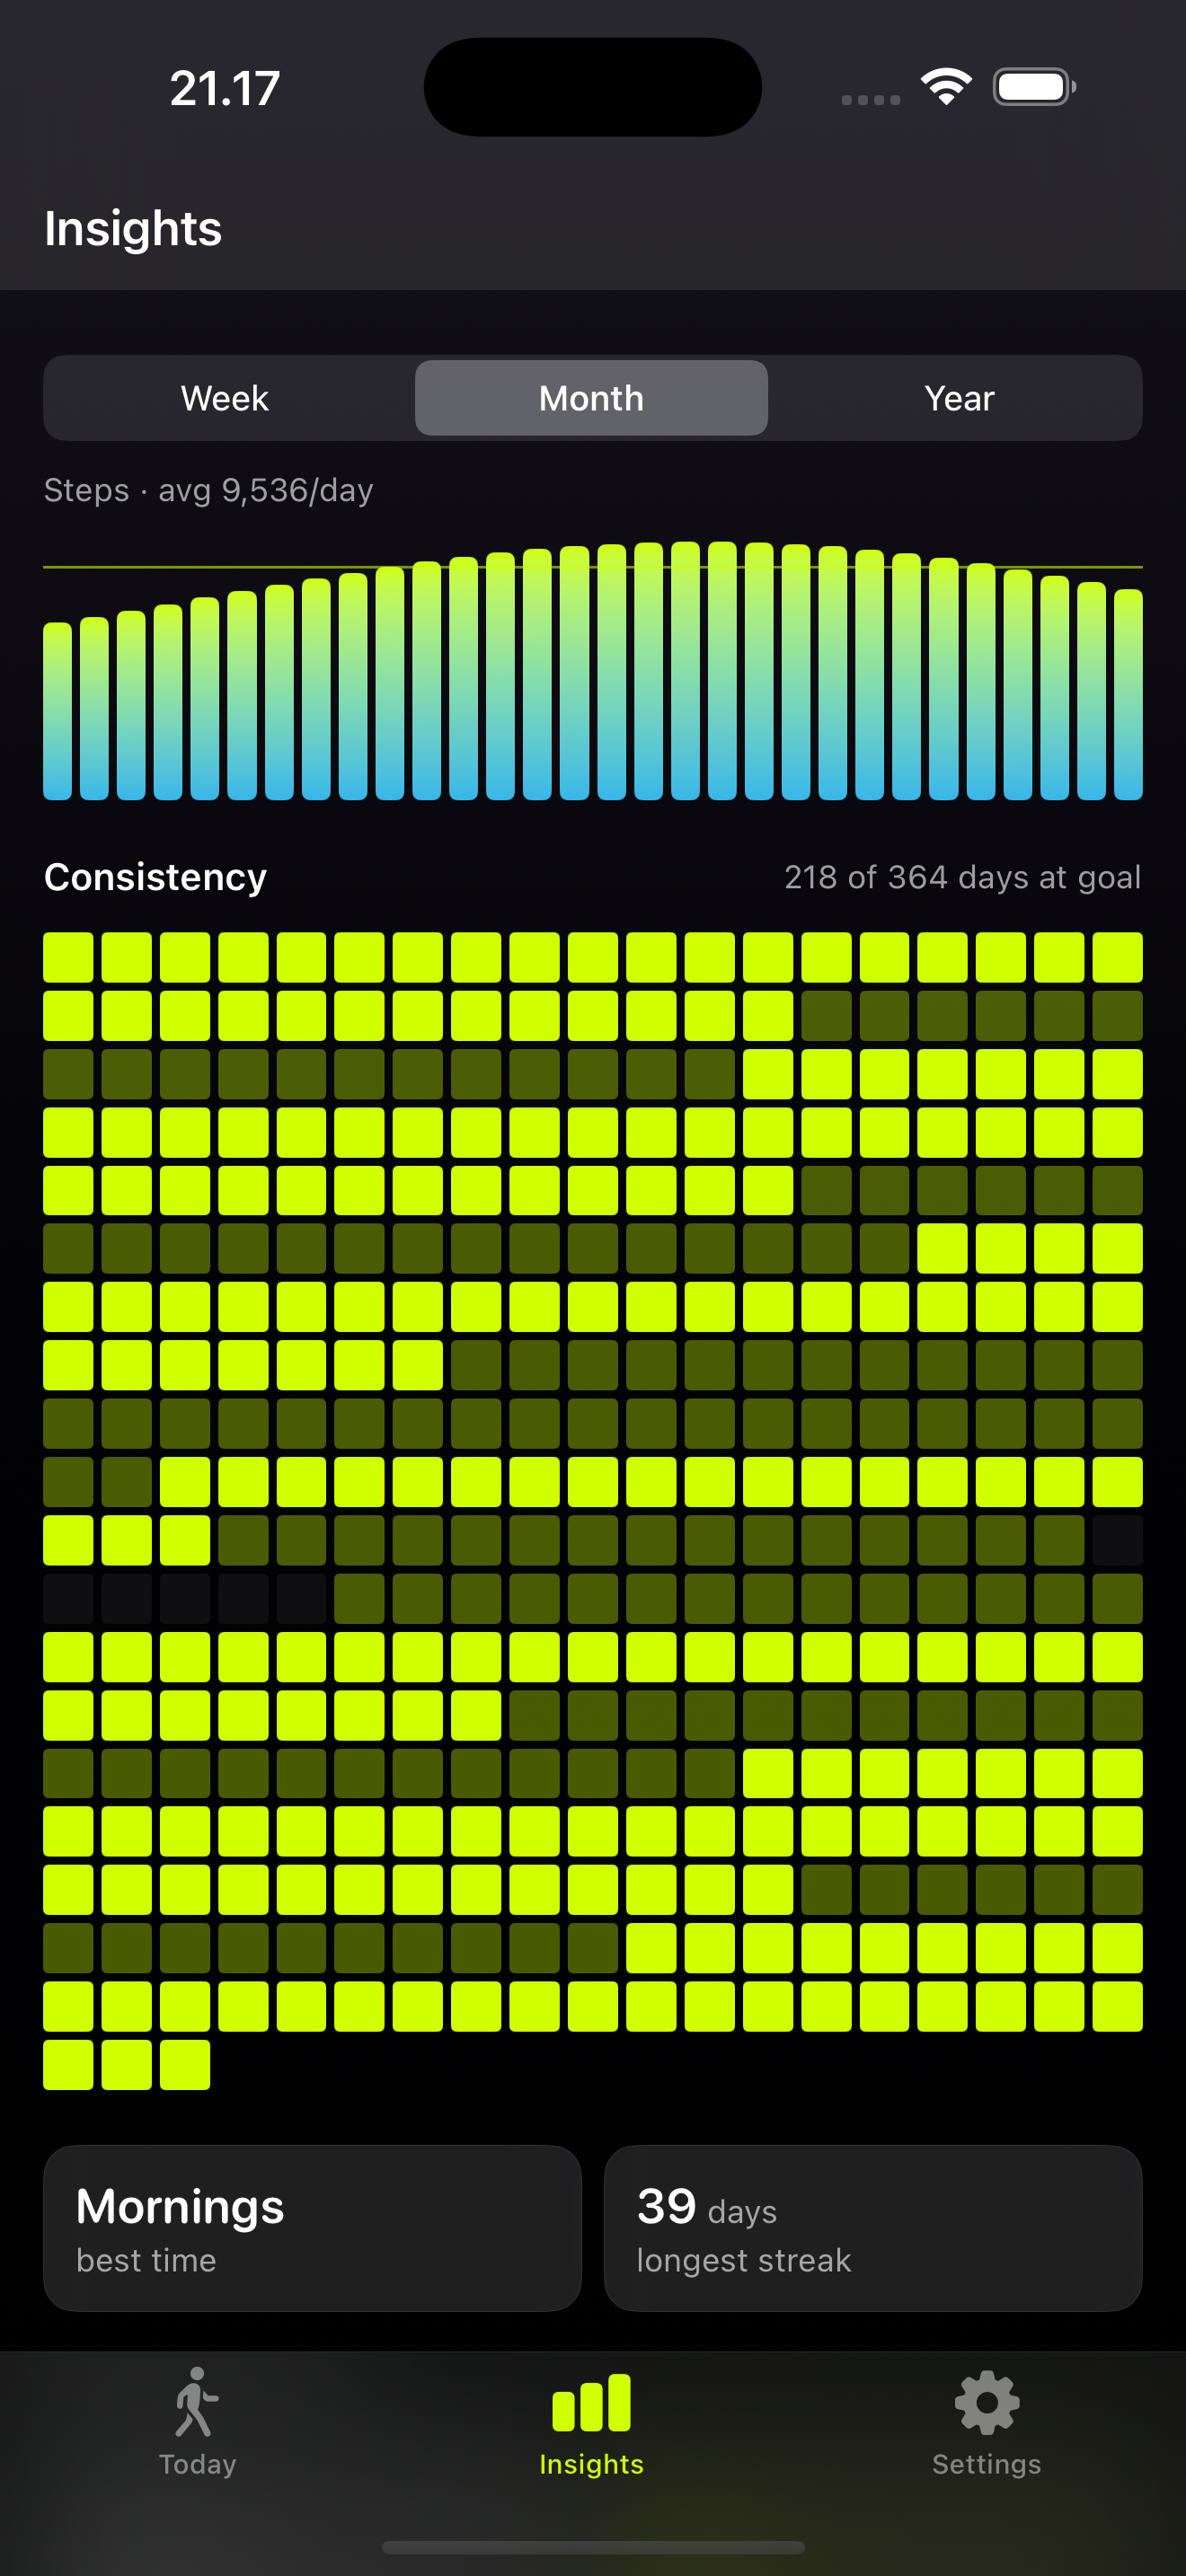
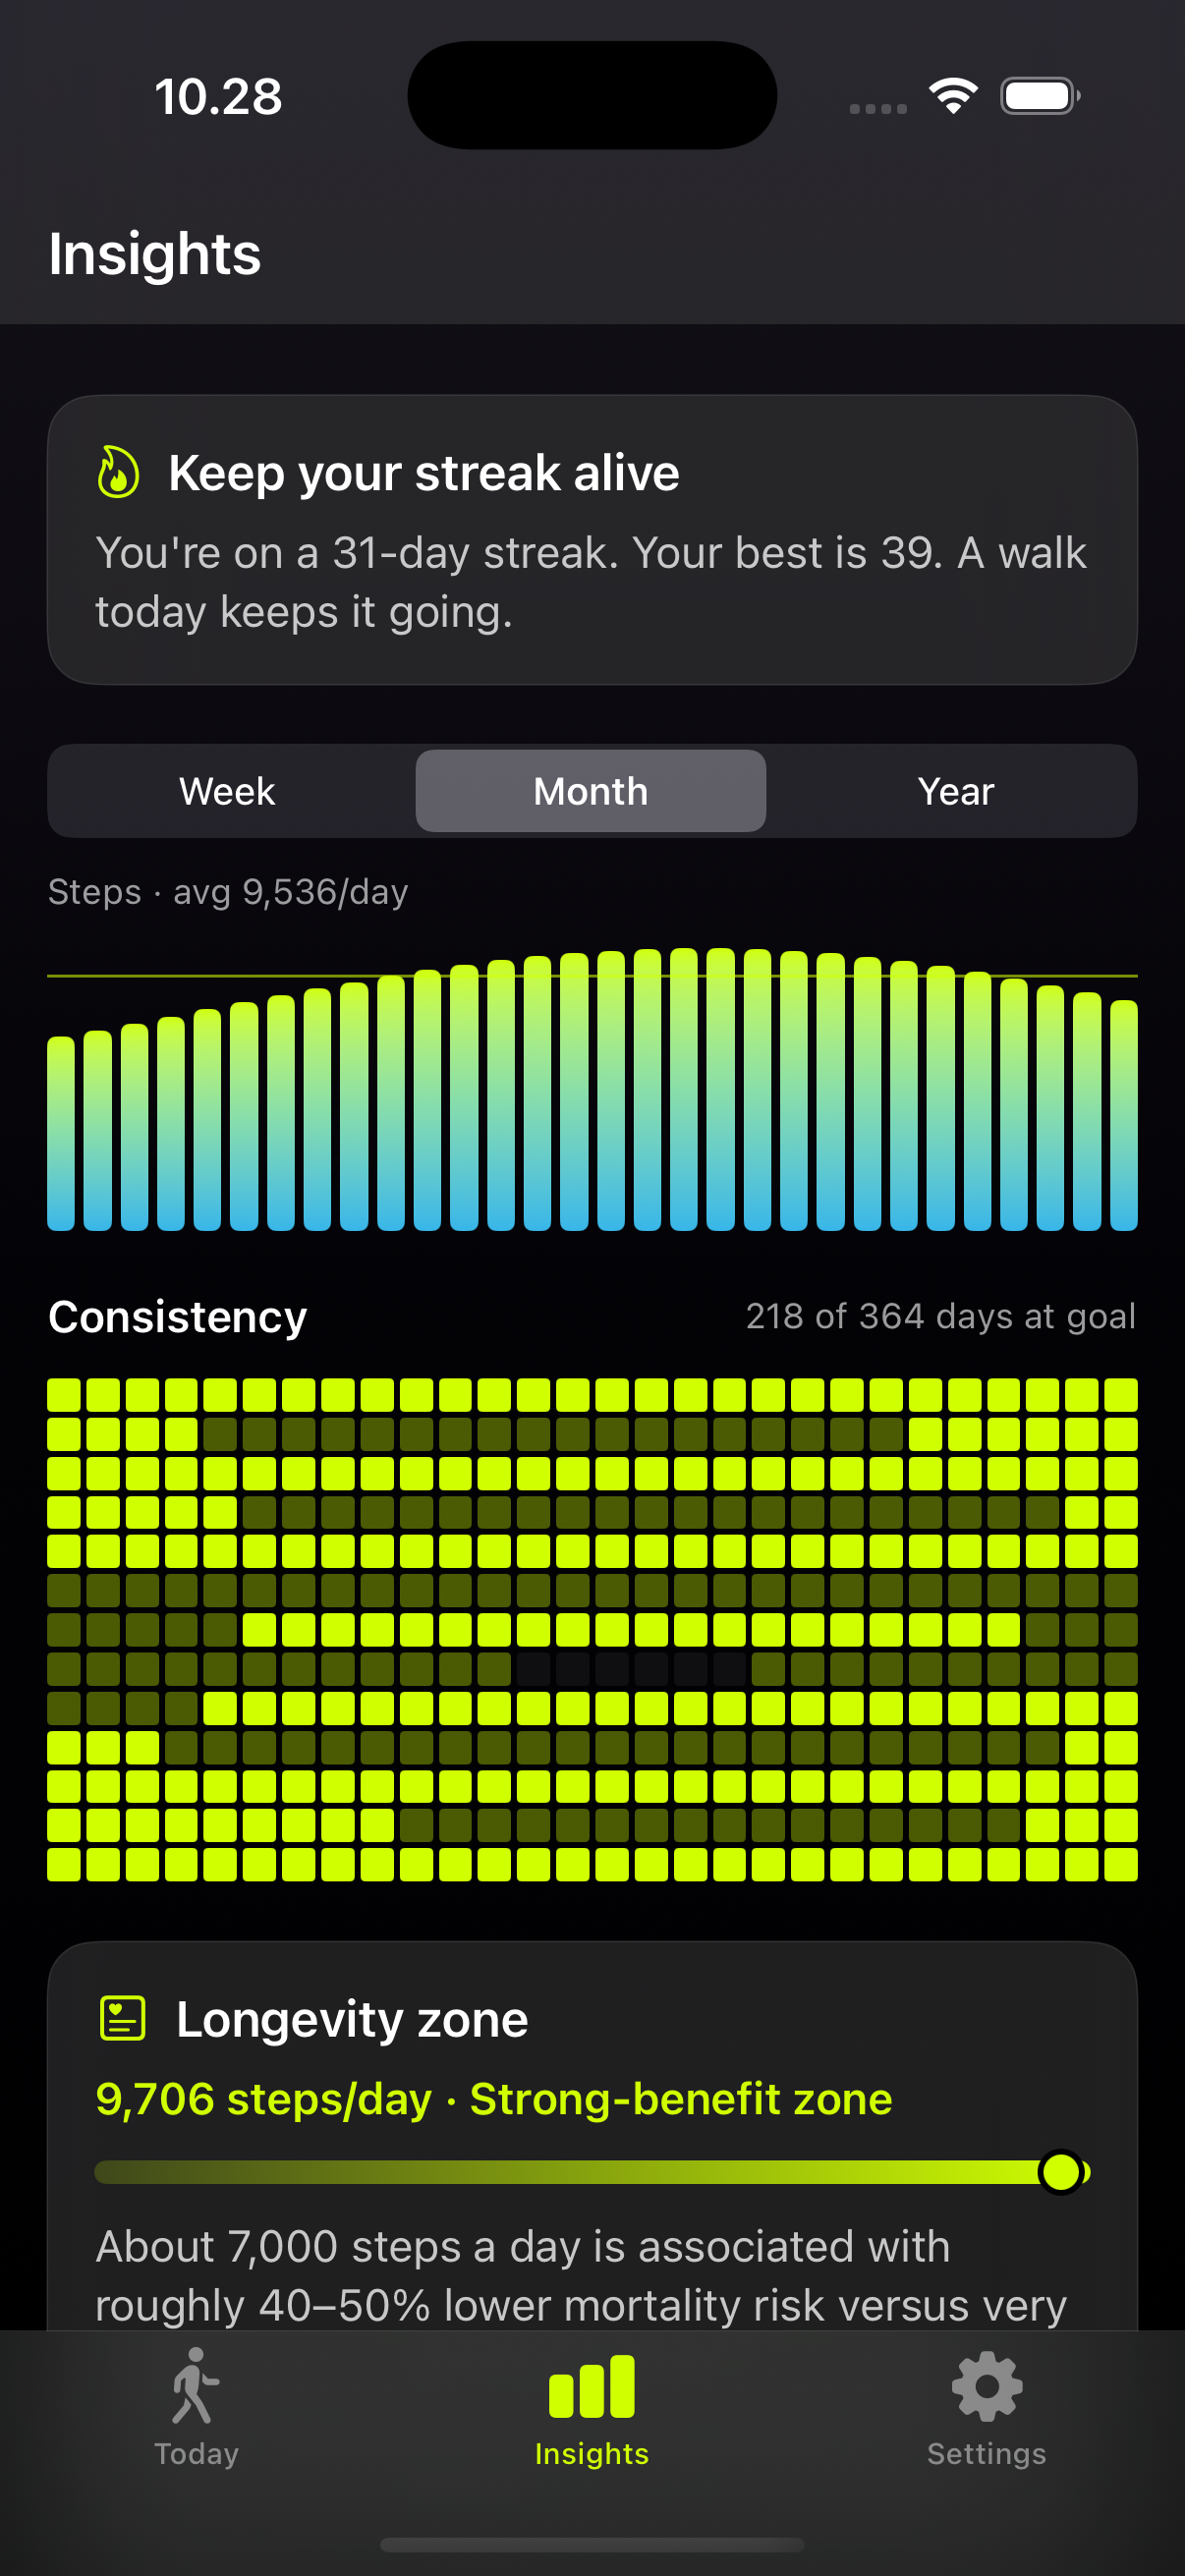
docs: post-launch & post-open-source staleness sweep (#92) (#109)
- ROADMAP: status rewritten (live on the App Store, 1.0.3 in review,
  CI/Xcode Cloud infra); next-steps list reflects the actual backlog.
- app-store-release: reframed as a living listing reference; description
  copy gains CSV export + longevity-zone card; release flow points at
  Xcode Cloud.
- CONTRIBUTING: documents the test target + CI (the "no automated tests
  yet" claim was two releases stale); release section describes the
  Xcode Cloud flow instead of manual archiving.
- ARCHITECTURE: module table catches up — all AppSettings properties
  (incl. the inline-default migration rule), CSVExport/Haptics, Store
  purchaseError, Insights two-phase skeleton + longevity zone, Settings
  units/adaptive/CSV/Rate-Share, systemMedium widget + midnight reset.
- CLAUDE.md: review prompt is once-ever (not once-per-day); specs live
  at the repo root.
- README: project-structure diagram adds Tests/, docs/, ci_scripts/,
  .github/; fresh screenshots captured via screenshot mode (compact
  heatmap + current design).
- CHANGELOG 0.2.0: "Today and Insights stay free" → Today stays free.
- PRD/TECH_PLAN: marked as historical specs (June 2026).
- Bug template: app version asked as users can find it (Settings tab),
  not MARKETING_VERSION.
- device-checklist: Insights skeleton, review prompt + Rate/Share, and
  regression guards for #81 (adaptive-goal override) and #85 (widget
  midnight reset).

Closes #92.

diff --git a/docs/app-store-release.md b/docs/app-store-release.md
@@ -1,19 +1,21 @@
-# App Store release guide — Walkful
+# App Store listing reference — Walkful
 
-Everything needed to take Walkful from TestFlight to a public App Store release.
-Copy-paste blocks are ready to use; adjust wording to taste. (#8)
+The living reference for Walkful's App Store presence: listing copy, privacy-label
+answers, review notes, and the submit checklist. Originally the launch guide (#8);
+the app has been **live since June 2026** (id [6781303837](https://apps.apple.com/app/id6781303837)).
+Keep this in sync when the listing changes in App Store Connect.
+(The **Danish** localized listing lives in the private strategy hub — `iamjarl-strategy/Walkful/aso.md`.)
 
 App: **Walkful** · Bundle ID `com.iamjarl.walkful` · Team: IAMJARL (`KDWZ3WNLDK`)
 Category: **Health & Fitness** · Age rating: **4+** · Sign-in required: **No**
 
 ---
 
-## 0. Prerequisites
+## 0. Prerequisites (done at launch — kept for reference)
 
 - [x] Paid Applications Agreement active (App Store Connect → Business).
-- [x] IAP `com.iamjarl.walkful.pro` created, **Ready to Submit** (Non-Consumable).
-- [ ] Latest build uploaded (currently 0.2, build 4 — Pro v2). Bump build for each upload.
-- [ ] App record exists (it does — created with the IAP).
+- [x] IAP `com.iamjarl.walkful.pro` created (Non-Consumable) — approved with 1.0.
+- [x] App record exists. Builds now arrive via **Xcode Cloud** from the `release` branch (Xcode Cloud owns the build number — see CONTRIBUTING.md).
 
 > ⚠️ **First IAP ships with the app version.** On the version page, under *In-App Purchases*, **select "Walkful Pro"** so it's reviewed together with the build. Otherwise the IAP stays unreviewed.
 
@@ -67,10 +69,11 @@ FREE
 • Home Screen and Lock Screen widgets.
 
 WALKFUL PRO (one-time purchase — no subscription)
-• Insights: week / month / year trends and a full-year consistency heatmap.
+• Insights: week / month / year trends, a full-year consistency heatmap and a longevity-zone card.
 • Mobility & fitness: walking speed, steadiness, cardio fitness (VO₂max) and resting heart rate.
 • Records: best day, week and month, longest streak, most floors.
 • A calm monthly recap.
+• CSV export — your data, yours to take with you.
 • The interval-walking coach — guided easy/brisk sessions to boost your fitness.
 
 Walkful collects nothing. Your health data is read from Apple Health, used only on your device, and never shared or sold.
@@ -78,14 +81,7 @@ Walkful collects nothing. Your health data is read from Apple Health, used only 
 Made by IAMJARL.
 ```
 
-**What's New** (release notes for the first public version):
-```
-The first public release of Walkful — a calm, private, evidence-based walking tracker.
-• Today dashboard with progress, trends and streaks
-• Home Screen & Lock Screen widgets
-• Gentle, sedentary-aware reminders
-• Walkful Pro: deep insights, mobility & fitness metrics, records, and an interval-walking coach
-```
+**What's New**: written per release — use the relevant [CHANGELOG](../CHANGELOG.md) section as the source, phrased for users. (The 1.0 launch notes are preserved in the git history of this file.)
 
 **Other fields:**
 - **Copyright:** `© 2026 IAMJARL`
@@ -151,8 +147,8 @@ no analytics. App privacy label: Data Not Collected.
 3. Fill in everything above + screenshots + age rating (4+) + pricing (app is free; Pro is the IAP).
 4. **Add for Review → Submit**.
 
-## 7. After approval
+## 7. After each approval
 
-- Tag the release: `git tag v1.0.0 && git push --tags` (and add release notes).
-- Announce the site (already live at walkful.iamjarl.com).
+- Cut the CHANGELOG `[Unreleased]` section to a version heading with the date.
+- Tag the release (`git tag vX.Y.Z && git push --tags`) and update the status line in README/CLAUDE.md.
 - Watch MetricKit crash reports in Xcode Organizer.

diff --git a/docs/ROADMAP.md b/docs/ROADMAP.md
@@ -3,29 +3,29 @@
 Orientation for anyone picking up Walkful. Pair this with [README](../README.md),
 [ARCHITECTURE](../ARCHITECTURE.md) and [CONTRIBUTING](../CONTRIBUTING.md).
 
-## Where the project stands (June 2026)
+## Where the project stands (July 2026)
 
-- **App:** v0.2 (build 6) **submitted to App Store review.** Free app + one-time **Walkful Pro** IAP.
-- **Shipped:** HealthKit dashboard, Today/Insights/Settings, interval-walking coach, sedentary-aware nudges, Home/Lock Screen widgets, Pro insights (trends, year heatmap, mobility & fitness, records, recap), the **Aurora** visual design, full **accessibility** (Dynamic Type, VoiceOver, Reduced Motion).
-- **Marketing site:** live at **walkful.iamjarl.com** (+ Danish `/da/`), auto-deployed from `website/` via GitHub Pages.
+- **App:** **Live on the App Store** (id [6781303837](https://apps.apple.com/app/id6781303837)) — currently v1.0.2, with 1.0.3 in review. Free app + one-time **Walkful Pro** IAP. Open source under AGPL-3.0.
+- **Shipped:** HealthKit dashboard (Today/Insights/Settings), interval-walking coach, sedentary-aware nudges, Home/Lock Screen widgets (incl. the systemMedium "This week"), Pro insights (trends, year heatmap, mobility & fitness, longevity-zone card, records, recap), CSV export, km/mi units, adaptive goal, App Store review prompt + Rate/Share, the **Aurora** visual design, full **accessibility** (Dynamic Type, VoiceOver, Reduced Motion).
+- **Infra:** unit tests (`Tests/`, 30+ cases) run by **GitHub Actions CI on every PR**; releases build via **Xcode Cloud** from the `release` branch; `main` is branch-protected.
+- **Marketing site:** live at **walkful.iamjarl.com** (+ Danish `/da/`, `/learn/` content hub, `/support.html`), auto-deployed from `website/` via GitHub Pages.
 - **Privacy:** 100% on-device. App Store label **Data Not Collected**.
 
 ## How work is tracked
 
-- **GitHub Issues** are the backlog. Every change goes through a branch + PR that closes an issue.
+- **GitHub Issues** are the backlog. Every change goes through a branch + PR that closes an issue; CI must pass before merge.
 - **Milestones:** `v1.0 — public launch` (what shipped) · `Post-launch / v1.x` (everything next).
 - **Labels:** type (`feature`/`bug`/`polish`/`chore`/`docs`), priority (`p1`–`p3`), area (`area:health/ui/notifications/storekit/watch/web`), plus `marketing` and `infra`.
 
-## Suggested order for a new developer
+## What's next
 
-1. **Get oriented & safe to change things** — `infra` issues first:
-   - Add a unit-test target ([#45]) and CI on PRs ([#46]).
-   - Run the [on-device verification checklist](device-checklist.md) — confirms the things the simulator can't.
-2. **Product depth** (the paid value): in-app Danish localization ([#40]), data export ([#41]), mortality-risk context ([#42]), more widgets ([#44]), units/adaptive goal ([#43]).
-3. **Experience polish:** onboarding polish ([#7]), insight→action ([#6]), delight/animations ([#10]).
-4. **Platform:** Apple Watch app + complication ([#4]).
-5. **Growth:** App Store badge URL post-approval ([#36]), ASO + Danish listing ([#37]), launch/press ([#38]), site content ([#39]).
-6. **Phase 2:** mood/mental check-in ([#13]); trademark check ([#11]).
+The remaining meaningful work, roughly in order of impact:
+
+1. **Apple Watch app + complication** ([#4]) — the largest missing platform piece; Watch data already flows in via Health, but there is no Watch target.
+2. **In-app Danish localization + i18n infrastructure** ([#40]) — the App Store listing is already localized to Danish; the app UI is English-only.
+3. **Step de-dup investigation** ([#53]) — totals can run high vs Health/Fitness with iPhone+Watch; needs a device pair to reproduce.
+4. **Mood / mental check-in** ([#13]) — phase-2 concept.
+5. Smaller cleanups: [#89] (minor correctness), [#90] (contributor build experience), [#93] (code of conduct).
 
 (Issue numbers are a snapshot — see the live [issues list](../../issues) and milestones.)
 
@@ -38,4 +38,4 @@ Orientation for anyone picking up Walkful. Pair this with [README](../README.md)
 
 ## Release notes / process
 
-See [app-store-release.md](app-store-release.md) for the listing copy, privacy-label answers, review notes, and the submit checklist (incl. the first-IAP-with-version requirement and the `xcodegen generate` step).
+See [app-store-release.md](app-store-release.md) for the listing reference (copy, privacy label, review notes) and [CONTRIBUTING.md](../CONTRIBUTING.md) for the release flow (bump `MARKETING_VERSION` → merge to `main` → fast-forward `release` → Xcode Cloud builds and uploads).

diff --git a/CONTRIBUTING.md b/CONTRIBUTING.md
@@ -32,7 +32,16 @@ xcodebuild -project Walkful.xcodeproj -scheme Walkful \
 
 > The build resolves the `IAMJARLDesignTokens` Swift package from GitHub, so the first build needs network access.
 
-There is no automated test target yet — verify changes by running on a simulator/device. Some paths (HealthKit authorization, real step data, notification delivery, the layered app icon) can only be verified on a **physical iPhone**.
+### Tests
+
+The `WalkfulTests` target (sources in `Tests/`) runs via the `Walkful` scheme:
+
+```bash
+SIM=$(xcrun simctl list devices available | grep -oE "iPhone [0-9][^(]*\([0-9A-F-]+\)" | head -1 | grep -oE "[0-9A-F-]{36}")
+xcodebuild -project Walkful.xcodeproj -scheme Walkful -destination "id=$SIM" test
+```
+
+**CI runs build + tests on every PR to `main`** (`.github/workflows/ci.yml`), and merging requires a green run. Some paths (HealthKit authorization, real step data, notification delivery, the layered app icon) can still only be verified on a **physical iPhone** — see [docs/device-checklist.md](docs/device-checklist.md).
 
 ## Code conventions
 
@@ -83,9 +92,12 @@ If a stale notification prompt appears, `xcrun simctl erase "$DEV"` for a clean 
 
 ## Release / TestFlight
 
-1. Bump `MARKETING_VERSION` / `CURRENT_PROJECT_VERSION` in `project.yml`, then `xcodegen generate`.
-2. Xcode → Product → **Archive** (Any iOS Device, Release). Signing uses the IAMJARL team (`DEVELOPMENT_TEAM` in `project.yml`).
-3. **Distribute → TestFlight & App Store** → upload.
-4. The App Store Connect app record must exist first (bundle id `com.iamjarl.walkful`).
+Releases are built by **Xcode Cloud** from the `release` branch:
+
+1. Bump `MARKETING_VERSION` in `project.yml` on a branch, merge to `main` (Xcode Cloud owns the build number — `CURRENT_PROJECT_VERSION` only affects local archives).
+2. Fast-forward `release` to `main` and push — that push triggers the archive + upload to App Store Connect.
+3. `ci_scripts/ci_post_clone.sh` handles the XcodeGen generation and SwiftPM resolution on the Xcode Cloud runner (the committed `ci_scripts/Package.resolved` must stay in sync with `project.yml`'s dependency pin).
+
+Manual archives (Xcode → Product → **Archive**) still work for ad-hoc testing; signing uses the IAMJARL team (`DEVELOPMENT_TEAM` in `project.yml`).
 
 Known upload gotchas (already handled in `project.yml`): both HealthKit usage strings are required even though we only read; `ITSAppUsesNonExemptEncryption=NO` answers the export-compliance prompt.

diff --git a/docs/device-checklist.md b/docs/device-checklist.md
@@ -23,6 +23,9 @@ Watch where noted) before each App Store submission.
       **not** re-show the "Connect Apple Health" card (regression guard for #54).
 - [ ] Insights (Pro) populates: trends, year heatmap, longevity-zone card,
       best time of day, records, recap, lifetime distance.
+- [ ] Insights shows the **loading skeleton** only briefly — the screen appears
+      as soon as history is ready; heavier metrics (mobility, lifetime distance)
+      fill in after without blocking (two-phase load).
 - [ ] Apple Watch-derived metrics (walking speed/steadiness, VO₂max, resting HR)
       appear if you wear a Watch; hide gracefully if not.
 
@@ -30,11 +33,20 @@ Watch where noted) before each App Store submission.
 - [ ] Settings → **Units** → Miles → distance switches to `mi` on Today + Insights.
 - [ ] Settings → **Adaptive goal** on → after a few high-average days the daily
       goal nudges up (never down).
+- [ ] With adaptive goal ON, **manually set a goal** (e.g. 7,500), leave Settings
+      and return to Today → the goal **stays** at your value that day; it adjusts
+      at most once per day (regression guard for #81).
 
 ## Delight (#10)
 - [ ] Crossing the daily goal fires a **success haptic** (once per day) and shows
       the "Goal reached today" pill.
 - [ ] With **Reduce Motion** on, ring/pill don't animate (haptic still fires).
+
+## Review prompt & Rate/Share
+- [ ] Settings → **Rate Walkful** opens the App Store review sheet; **Share
+      Walkful** opens the share sheet with the App Store link.
+- [ ] The automatic review prompt appears at most **once ever**, and only at a
+      high point (goal reached + 3-day streak). No nagging on later launches.
 
 ## Notifications & background nudges
 - [ ] Onboarding requests notification permission; granting enables nudges.
@@ -49,6 +61,8 @@ Watch where noted) before each App Store submission.
 - [ ] Lock Screen accessory widgets: Steps (circular/inline/rectangular) and
       This week (rectangular) render and update.
 - [ ] Widgets refresh after opening the app (snapshot via App Group).
+- [ ] After midnight **without opening the app**, widgets show 0 — not
+      yesterday's count (regression guard for #85).
 
 ## In-App Purchase (Sandbox)
 - [ ] Insights/coach show the paywall when **not** Pro.

diff --git a/ARCHITECTURE.md b/ARCHITECTURE.md
@@ -27,10 +27,12 @@ WalkfulApp (@main)
 | Path | Responsibility |
 |------|----------------|
 | `Core/Health/HealthKitService.swift` | `@MainActor @Observable` service. Read-only HealthKit access (steps, distance, flights, active minutes, resting HR, walking speed/steadiness, VO₂max). Today's totals, ~1 year of daily history, monthly totals, trends, records (best day/week/month, streaks, most floors), best time of day, lifetime distance. Live updates via `HKObserverQuery`. |
-| `Core/Persistence/AppSettings.swift` | SwiftData `@Model` singleton: `dailyGoal`, `nudgesEnabled`, `hasOnboarded`, `nudgeStartHour`/`nudgeEndHour` (active-hours window). |
+| `Core/Persistence/AppSettings.swift` | SwiftData `@Model` singleton: `dailyGoal`, `nudgesEnabled`, `hasOnboarded`, `nudgeStartHour`/`nudgeEndHour` (active-hours window), `useImperial` (km/mi), `adaptiveGoal` + `lastGoalAdjustmentDay` (at most one auto-adjust per day, never overriding a same-day manual change), `lastGoalCelebrationDay` (goal haptic once/day), `hasRequestedReview` (review prompt once ever). **New properties need inline defaults** or existing installs crash on migration. |
 | `Core/Notifications/NudgeScheduler.swift` | Local `UserNotifications`. Baseline reminders clamped to the active-hours window; keeps `SedentaryMonitor`'s mirrored settings in sync. |
 | `Core/Notifications/SedentaryMonitor.swift` | `BackgroundTasks` (`BGAppRefreshTask`) + HealthKit. The smart layer: nudges only when actually sedentary, in-window, rate-limited (~2h). |
-| `Core/Store/Store.swift` | StoreKit 2 (`@MainActor @Observable`). One-time "Walkful Pro" unlock; `isPro` from `Transaction.currentEntitlements`; `purchase()`/`restore()` + updates listener. |
+| `Core/Store/Store.swift` | StoreKit 2 (`@MainActor @Observable`). One-time "Walkful Pro" unlock; `isPro` from `Transaction.currentEntitlements`; `purchase()`/`restore()` + updates listener; `purchaseError` surfaces failed/unverified/pending purchases to the paywall. |
+| `Core/CSVExport.swift` | Builds the step-history CSV for the Pro export in Settings (share sheet). |
+| `Core/Haptics.swift` | Small haptics helpers (goal celebration, coach phase changes). |
 | `Core/Shared/SharedStore.swift` | Writes today's snapshot (steps + goal) to the App Group (`group.com.iamjarl.walkful`) for the widget. Compiled into both the app and the widget. |
 | `Core/Diagnostics/MetricsSubscriber.swift` | MetricKit subscriber — crash/performance payloads delivered by the OS (no third-party SDK, no servers). |
 | `Core/Theme/WalkfulTheme.swift` | `Tokens` facade over `IAMJARLDesignTokens`; light/dark-adaptive `Color`s, the **Aurora** layer (`Tokens.Gradient.ring/bars/heroBackdrop`), and scalable `Tokens.TextStyle.*` (Dynamic Type). |
@@ -39,11 +41,11 @@ WalkfulApp (@main)
 | `Core/Formatters.swift` | `Int.stepsFormatted` (en_US grouping). Also compiled into the widget. |
 | `Features/Onboarding` | 4-step onboarding; writes goal/nudges to `AppSettings`. |
 | `Features/Today` | Dashboard: ring + meaning line, stat chips, this-week bars, streak, interval-coach CTA. Publishes the widget snapshot. Coach is **Pro-gated** (→ paywall). |
-| `Features/Insights` | **Pro-gated.** Week/month/year trends + year heatmap, best time / longest streak, mobility & fitness (walking speed/steadiness/VO₂max/resting HR), brisk-minute trend, records gallery, monthly recap, lifetime milestone. |
+| `Features/Insights` | **Pro-gated.** Week/month/year trends + year heatmap, best time / longest streak, mobility & fitness (walking speed/steadiness/VO₂max/resting HR), longevity-zone card, brisk-minute trend, records gallery, monthly recap, lifetime milestone. Two-phase load behind a skeleton: the screen appears as soon as history is ready; heavier metrics fill in after. |
 | `Features/Coach` | `IntervalCoach` (model) + `CoachView` — guided easy/brisk interval walk with haptics. |
 | `Features/Paywall` | `PaywallView` — calm one-time-unlock paywall + restore. |
-| `Features/Settings` | Goal stepper, nudge toggle + active-hours window, Walkful Pro section, privacy note. |
-| `WalkfulWidget/` | WidgetKit extension — `systemSmall` + Lock Screen accessory families. Reads the App Group snapshot via `SharedStore`. |
+| `Features/Settings` | Goal stepper + adaptive-goal toggle, units (km/mi), nudge toggle + active-hours window, Walkful Pro section, CSV export (Pro), Rate & Share, privacy note. |
+| `WalkfulWidget/` | WidgetKit extension — `systemSmall` Steps + `systemMedium` "This week" + Lock Screen accessory families. Reads the App Group snapshot via `SharedStore`; a stale (pre-midnight) snapshot renders as 0, and the timeline resets itself at midnight. |
 
 ## Data flow
 

diff --git a/README.md b/README.md
@@ -96,8 +96,12 @@ walking-app/
 │  ├─ Features/             # Onboarding / Today / Insights / Coach / Paywall / Settings
 │  └─ Resources/            # Assets.xcassets (layered app icon)
 ├─ WalkfulWidget/           # WidgetKit extension (Home + Lock Screen)
+├─ Tests/                   # WalkfulTests unit tests (run via the Walkful scheme)
 ├─ website/                 # Marketing site (static, SEO/GEO)
-├─ PRD.md TECH_PLAN.md               # Product & technical docs (Danish)
+├─ docs/                    # Process docs (roadmap, release guide, device checklist)
+├─ ci_scripts/              # Xcode Cloud post-clone (xcodegen + SwiftPM resolve)
+├─ .github/                 # CI workflow, Pages deploy, issue/PR templates
+├─ PRD.md TECH_PLAN.md               # Product & technical specs (Danish, historical)
 └─ ARCHITECTURE.md CONTRIBUTING.md CHANGELOG.md   # Developer docs (English)
 ```
 

diff --git a/CLAUDE.md b/CLAUDE.md
@@ -1,6 +1,6 @@
 # CLAUDE.md — Walkful
 
-Quick-start context for developers and AI assistants. Detailed specs in `docs/`.
+Quick-start context for developers and AI assistants. Product/tech specs live at the repo root (`PRD.md`, `TECH_PLAN.md` — historical, June 2026); process docs in `docs/`.
 
 ## What is Walkful?
 
@@ -33,7 +33,7 @@ marketing **site** source (`website/`), and normal OSS docs.
 - **Interval-walking coach (Pro):** guided easy/brisk sessions with haptics.
 - **Widgets:** Home Screen (`systemSmall`, `systemMedium` "This week") + Lock Screen accessory families.
 - **Gentle nudges:** sedentary-aware local reminders within a user-set active-hours window.
-- **CSV export (Pro), Rate/Share, and a once-per-day App Store review prompt.**
+- **CSV export (Pro), Rate/Share, and an App Store review prompt asked at most once ever** (at a goal + 3-day-streak high point, throttled by the system).
 
 ### Features that do NOT exist (common hallucination targets)
 - No accounts, login, servers, backend, or cloud sync — all on-device.

diff --git a/CHANGELOG.md b/CHANGELOG.md
@@ -54,7 +54,7 @@ First public release — [App Store ID 6781303837](https://apps.apple.com/app/id
 - **Pro: Records & monthly recap** — Insights now has a records gallery (best day, best week, best month, longest streak, most floors) and a calm monthly recap (this month's steps + change vs last month) (#23).
 - **Pro: Mobility & fitness** — Insights now shows walking speed, walking steadiness, cardio fitness (VO₂max) and resting heart rate. Apple Watch-derived metrics hide gracefully when absent (#22).
 - **Pro: Trends & history** — Insights now has week/month/year step trends with an average line, and a full-year consistency heatmap (replacing the 30-day grid). History extended to ~1 year (#21).
-- **Walkful Pro** — a one-time (non-consumable) StoreKit 2 unlock for Insights and the interval-walking coach. Calm paywall, restore purchases, on-device entitlement check (no subscription, no server). Today and Insights stay free; the gated parts show a paywall. Includes a local `Walkful.storekit` config for testing (#5).
+- **Walkful Pro** — a one-time (non-consumable) StoreKit 2 unlock for Insights and the interval-walking coach. Calm paywall, restore purchases, on-device entitlement check (no subscription, no server). Today stays free; the gated parts (Insights, interval coach) show a paywall. Includes a local `Walkful.storekit` config for testing (#5).
 - **Home Screen & Lock Screen widgets** (WidgetKit) — a step-progress widget in `systemSmall` plus Lock Screen accessory families (circular, inline, rectangular). The app publishes today's snapshot to a shared App Group; the widget reads it. On-device (#3).
 - **Smarter, sedentary-aware nudges** — a background check (BackgroundTasks + HealthKit) fires a gentle reminder only when you've actually been still, within a user-set active-hours window, rate-limited to ~once per 2h. Quiet-hours pickers added to Settings (#2).
 - **Interval-walking coach** — a guided session alternating easy/brisk phases with haptic cues and a configurable number of rounds, launched from Today. On-device, grounded in Bente Klarlund Pedersen's advice (#1).

diff --git a/PRD.md b/PRD.md
@@ -2,6 +2,8 @@
 
 *Version 0.1 · 2026-06-17 · Bygger på research i det private [iamjarl-strategy](https://github.com/JarlLyng/iamjarl-strategy)-hub*
 
+> **Historisk spec (juni 2026).** Det oprindelige produktdokument, bevaret for kontekst. Den udgivne app har udviklet sig — se [README](README.md) og [ARCHITECTURE.md](ARCHITECTURE.md) for den aktuelle tilstand.
+
 **Navn:** **Walkful** — engelsk, sammensat af "walk" + "-ful" (mindful-undertone). Internationalt publikum. Tagline-retning: *"Walkful — every step counts."*
 Historik: tidligere kandidat "Afoot" blev droppet — navnet var allerede i brug i App Store (App Record Creation Error ved upload). "Walkful" er et opfundet ord → mere ejerbart og varemærke-venligt. **Endeligt bekræftet ledigt i App Store Connect; varemærke-tjek (EUIPO/DKPTO) anbefales stadig før lancering.**
 

diff --git a/TECH_PLAN.md b/TECH_PLAN.md
@@ -2,6 +2,8 @@
 
 *Version 0.1 · 2026-06-17 · Bygger på [PRD.md](PRD.md)*
 
+> **Historisk spec (juni 2026).** Bevaret for kontekst — dele af planen (fx datamodellerne) blev aldrig implementeret som beskrevet. Se [ARCHITECTURE.md](ARCHITECTURE.md) for hvordan appen faktisk er bygget.
+
 Princip: **100% on-device, ingen backend.** Alt der ikke skal forlade telefonen, gør det ikke. Privacy er en arkitektonisk egenskab, ikke en indstilling.
 
 ---